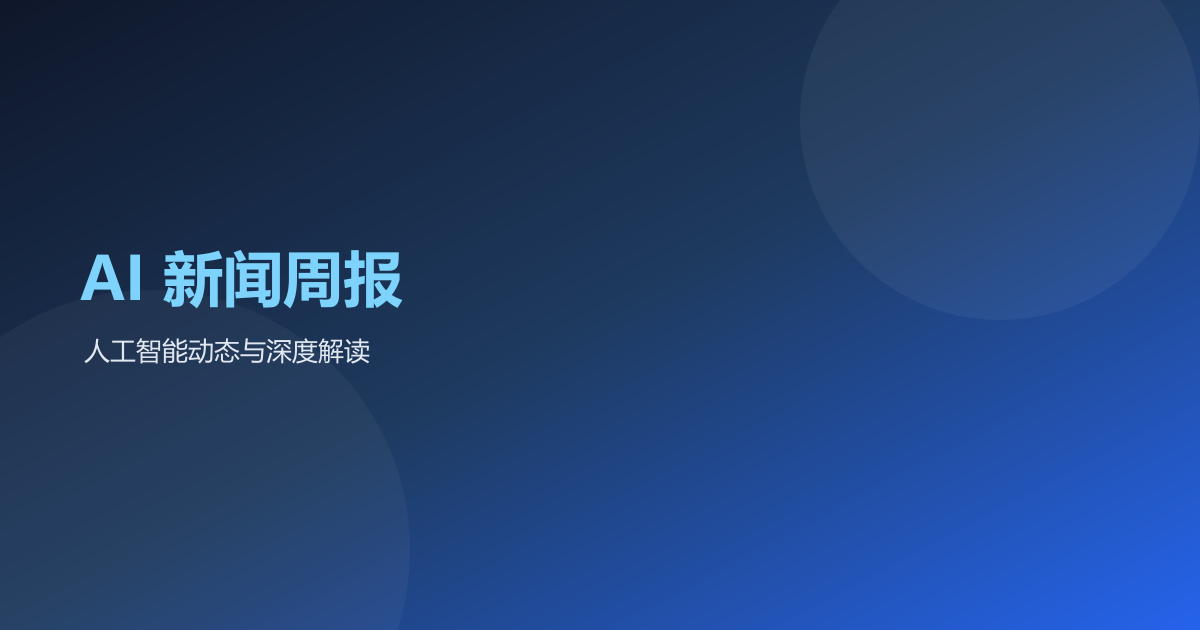
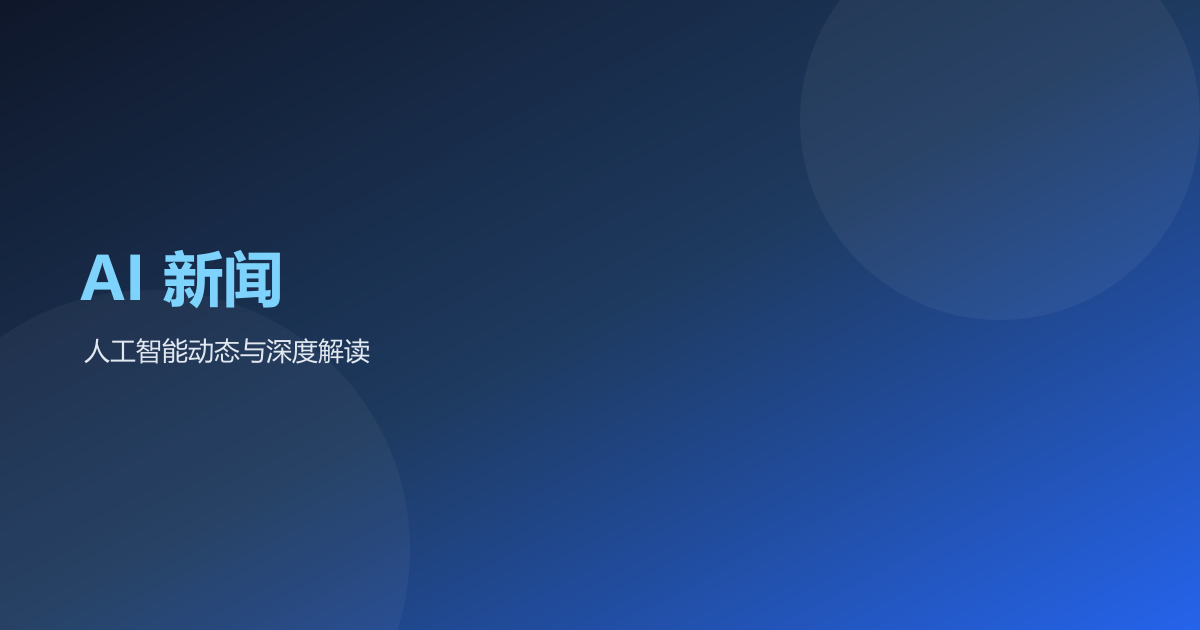
非AI周报文章标题去'周报'二字,封面文字去'周报'

Changed region(s): [[0.2158, 0.3921, 0.3392, 0.4825]]

diff --git a/source/_posts/about-ai-weekly-blog.md b/source/_posts/about-ai-weekly-blog.md
@@ -1,6 +1,6 @@
 ---
 index_img: /img/cover-default.png
-title: 本站说明：关于 AI 新闻周报，你想知道的都在这里
+title: 本站说明：关于 AI 新闻，你想知道的都在这里
 date: 2026-08-07 15:00:00
 updated: 2026-08-07 15:00:00
 comments: true
@@ -65,7 +65,7 @@ toc: true
 
 ## 🔧 技术方案（极客向）
 
-本站是 **Hexo + Fluid 主题 + GitHub Pages** 搭建的纯静态博客，托管在 GitHub，**零服务器成本**。整套搭建过程写了篇教程（见「教程」板块的《十分钟搭建自己的 AI 新闻周报博客》），想自己搭一个可以参考。
+本站是 **Hexo + Fluid 主题 + GitHub Pages** 搭建的纯静态博客，托管在 GitHub，**零服务器成本**。整套搭建过程写了篇教程（见「教程」板块的《十分钟搭建自己的 AI 新闻博客》），想自己搭一个可以参考。
 
 ## 🙏 写在最后
 

diff --git a/source/_posts/acg-fun-2026-08-06.md b/source/_posts/acg-fun-2026-08-06.md
@@ -1,6 +1,6 @@
 ---
 index_img: /img/cover-acg.png
-title: 二次元乐子周报：7月末～8月初，声优整活、Cosplay出圈与封面玄学
+title: 二次元乐子：7月末～8月初，声优整活、Cosplay出圈与封面玄学
 date: 2026-08-06 13:05:00
 updated: 2026-08-06 13:05:00
 comments: true

diff --git a/source/_posts/tutorial-hexo-github-pages.md b/source/_posts/tutorial-hexo-github-pages.md
@@ -1,6 +1,6 @@
 ---
 index_img: /img/cover-default.png
-title: 十分钟搭建自己的 AI 新闻周报博客：Hexo + GitHub Pages 零成本方案
+title: 十分钟搭建自己的 AI 新闻博客：Hexo + GitHub Pages 零成本方案
 date: 2026-08-07 12:30:00
 updated: 2026-08-07 12:30:00
 comments: true
